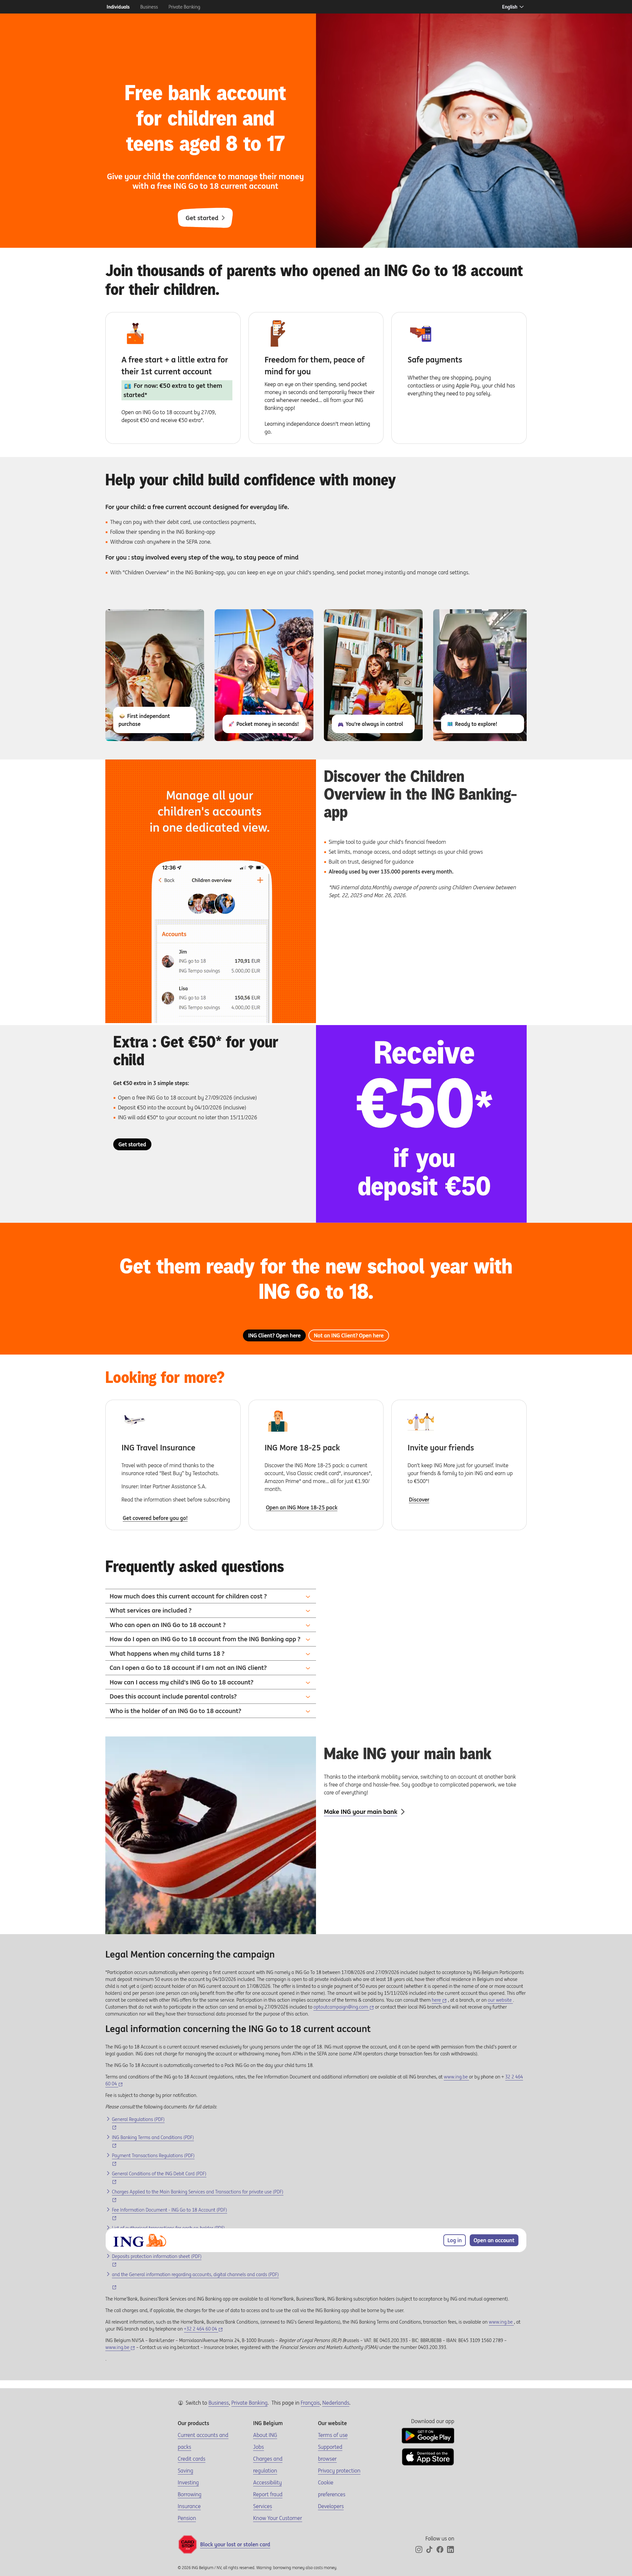
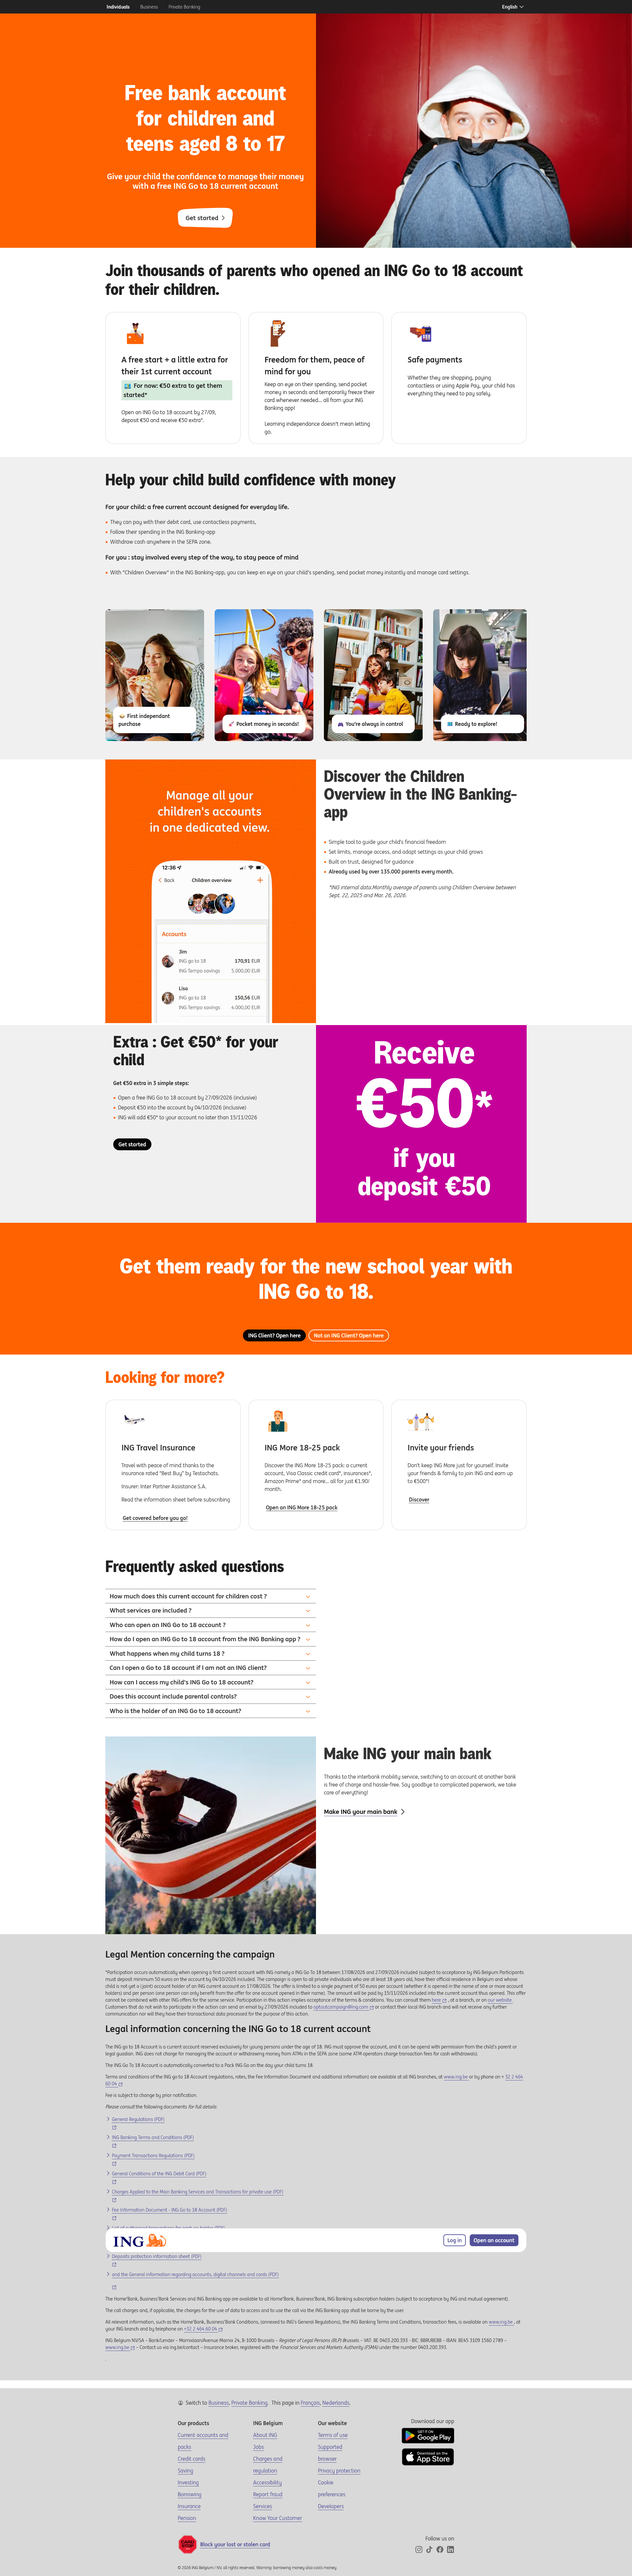
code merged and functional

Changed region(s): [[0.5, 0.3745, 0.8438, 0.4994], [0.6562, 0.0, 0.9062, 0.0936], [0.5938, 0.0624, 0.6562, 0.0936]]

diff --git a/main.py b/main.py
@@ -8,7 +8,7 @@ import yaml
 from pathlib import Path
 
 
-PROJECT_ROOT = Path(__file__).resolve().parents[1]
+PROJECT_ROOT = Path(__file__).resolve().parent
 CONFIG_PATH = PROJECT_ROOT / "config" / "banks.yaml"
 
 def load_bank_config():
@@ -85,56 +85,59 @@ def main():
         browser = p.firefox.launch(headless=True)
 
         for bank, dic in selected_banks.items():
-            url = dic["url"]
-            outpath = dic["outpath"]
+            b = banks.get(bank)
+            urls = b.get("seeds")
+            outpaths = b.get("outpaths")
+            for i, url in enumerate(urls):
+                outpath = outpaths[i]
 
-            context = browser.new_context(
-                viewport={"width": 1920, "height": 1080}, locale="en-US"
-            )
-            page = context.new_page()
+                context = browser.new_context(
+                    viewport={"width": 1920, "height": 1080}, locale="en-US"
+                )
+                page = context.new_page()
 
-            try:
+                try:
 
-                print(f"\n--- Navigating to {url} ---")
-                page.goto(url, wait_until="networkidle")
+                    print(f"\n--- Navigating to {url} ---")
+                    page.goto(url, wait_until="networkidle")
 
-                if "/maintenance" in (link:=page.url):
-                    print("Redirected to maintenance page. url :", link)
-                    browser.close()
-                    return
-                print("Found :", link)
+                    if "/maintenance" in (link:=page.url):
+                        print("Redirected to maintenance page. url :", link)
+                        browser.close()
+                        return
+                    print("Found :", link)
 
-                handle_cookie_banner(page)
+                    handle_cookie_banner(page)
 
-                print("Page loaded successfully:", page.title())
-                page.screenshot(path=f"./screenshots/{outpath}_design.png", full_page=True)
+                    print("Page loaded successfully:", page.title())
+                    page.screenshot(path=f"./screenshots/{outpath}_design.png", full_page=True)
 
-                # Extract targeted marketing fields
-                scraped_data = extract_marketing_data(page)
+                    # Extract targeted marketing fields
+                    scraped_data = extract_marketing_data(page)
 
-                # Output preview to console
-                print("\n--- Extracted Marketing Data ---")
-                for key, val in scraped_data.items():
-                    if key == "raw_text":
-                        print(f"{key}: {val[:120]}... (truncated)")
-                    else:
-                        print(f"{key}: {val}")
+                    # Output preview to console
+                    print("\n--- Extracted Marketing Data ---")
+                    for key, val in scraped_data.items():
+                        if key == "raw_text":
+                            print(f"{key}: {val[:120]}... (truncated)")
+                        else:
+                            print(f"{key}: {val}")
 
-                # Save record
-                save_to_sqlite(url, bank, scraped_data)
+                    # Save record
+                    save_to_sqlite(url, bank, scraped_data)
 
-                unique_hex_colors = extract_dominant_colors(f"./screenshots/{outpath}_design.png")
-                print("\nExtracted Unique HEX Colors:")
-                print(unique_hex_colors)
+                    unique_hex_colors = extract_dominant_colors(f"./screenshots/{outpath}_design.png")
+                    print("\nExtracted Unique HEX Colors:")
+                    print(unique_hex_colors)
 
-                # Save to database
-                save_colors_to_sqlite(url, unique_hex_colors)
+                    # Save to database
+                    save_colors_to_sqlite(url, unique_hex_colors)
 
-            except Exception as e:
-                print(f"Failed to scrape {url}: {e}")
+                except Exception as e:
+                    print(f"Failed to scrape {url}: {e}")
 
-            finally:
-                context.close()
+                finally:
+                    context.close()
 
         browser.close()
 
